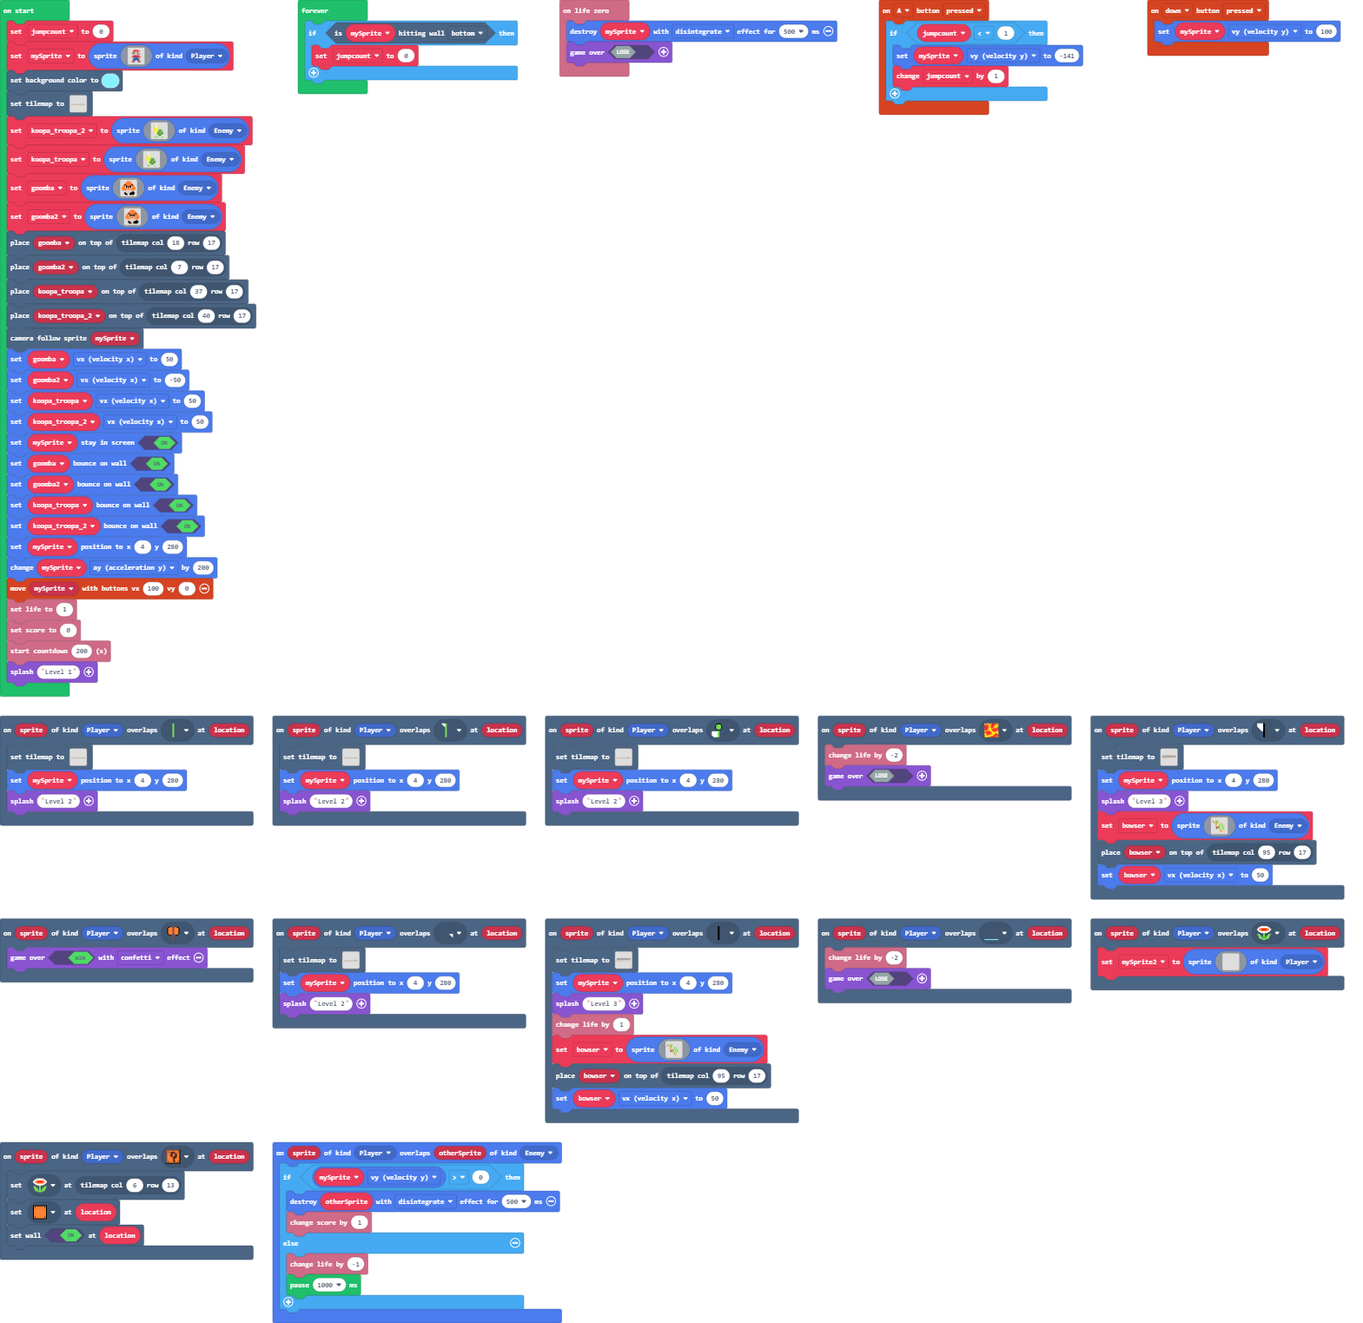
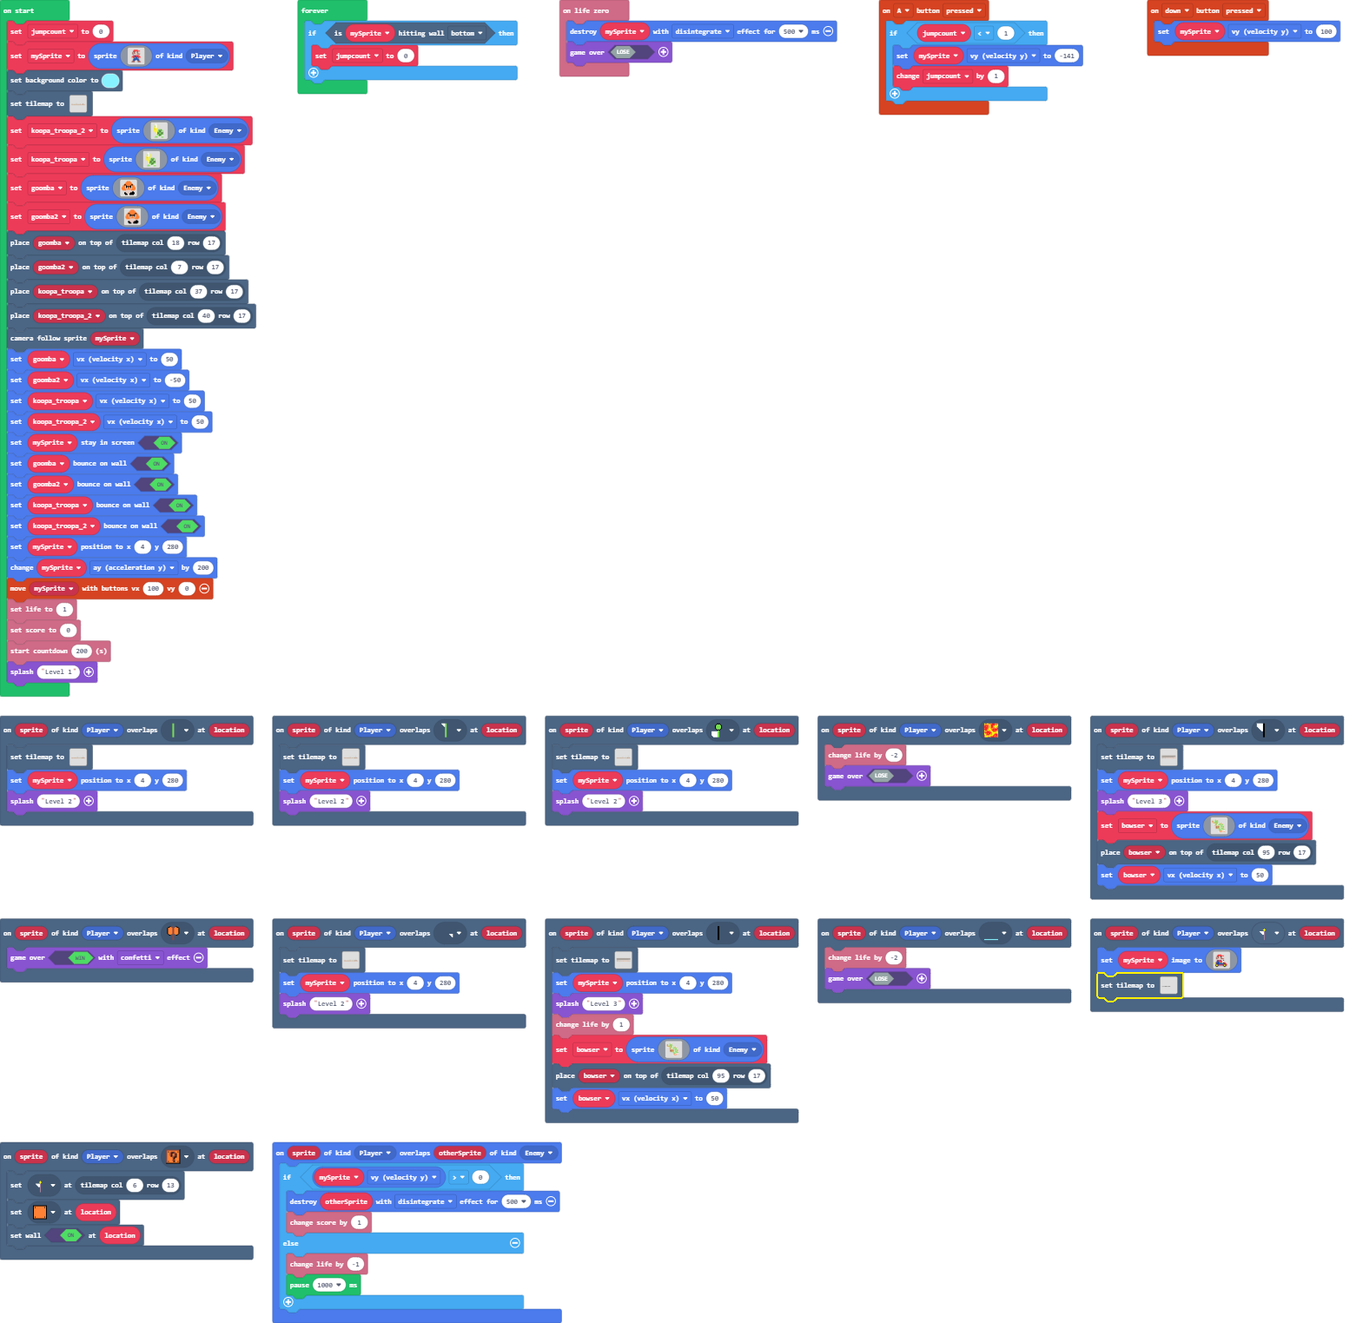
Update main.blocks, main.ts, tilemap.g.jres, tilemap.g.ts

Changed region(s): [[0.7808, 0.7098, 0.9994, 0.7715], [0.9369, 0.6172, 0.9681, 0.6481]]

diff --git a/tilemap.g.ts b/tilemap.g.ts
@@ -29,8 +29,6 @@ namespace myTiles {
     //% fixedInstance jres blockIdentity=images._tile
     export const tile13 = image.ofBuffer(hex``);
     //% fixedInstance jres blockIdentity=images._tile
-    export const tile14 = image.ofBuffer(hex``);
-    //% fixedInstance jres blockIdentity=images._tile
     export const tile15 = image.ofBuffer(hex``);
     //% fixedInstance jres blockIdentity=images._tile
     export const tile16 = image.ofBuffer(hex``);
@@ -50,6 +48,12 @@ namespace myTiles {
     export const tile23 = image.ofBuffer(hex``);
     //% fixedInstance jres blockIdentity=images._tile
     export const tile24 = image.ofBuffer(hex``);
+    //% fixedInstance jres blockIdentity=images._tile
+    export const tile14 = image.ofBuffer(hex``);
+    //% fixedInstance jres blockIdentity=images._tile
+    export const tile25 = image.ofBuffer(hex``);
+    //% fixedInstance jres blockIdentity=images._tile
+    export const tile26 = image.ofBuffer(hex``);
 
     helpers._registerFactory("tilemap", function(name: string) {
         switch(helpers.stringTrim(name)) {
@@ -318,29 +322,6 @@ namespace myTiles {
 . . . . . . . . . . . . . . . . 
 . . . . . . . . . . . . . . . . 
 `, [myTiles.transparency16], TileScale.Sixteen);
-            case "level5":
[1 lines of base64/hex data omitted]
-2222222222222222222222222222222222222222222222222222222222222222222222222222222222222222222222222222
-2222222222222222222222222222222222222222222222222222222222222222222222222222222222222222222222222222
-22222222222222222222222222222222222222222222222.........................................222222222222
-22222222222222222222222222222222222222222222222.........................................222222222222
-22222222222222222222222222222222222222222222222...........................................2222222222
-2222222222222222222222222222222222222222222.............2....2...2...........2...2.............22222
-22222222222222222222222222222222222222222...........2................2...2........................22
-22222222222222222222222222222222...............2...................................................2
-222222222222.22222222222222222.2....................................................................
-....................................................................................................
-...........................................222......................................................
-....................................................................................................
-....................................................................2.............22................
-................................2...................................2............222................
-.2...22222......................2.........22222.....................2...........2222................
-...........................2....2..............................2....2..........22222................
-....................2......2....2....................2....2....2....2.........222222................
-...................22......2....2...................22....22...2....2........2222222......2.........
-222222222222222222222222222222222222222222222222222222....2222222...22222222222222222222222222222222
-222222222222222222222222222222222222222222222222222222....2222222...22222222222222222222222222222222
-`, [myTiles.transparency16,myTiles.tile2,myTiles.tile3,myTiles.tile4,myTiles.tile5,myTiles.tile10,myTiles.tile11,myTiles.tile13,myTiles.tile14,myTiles.tile15,myTiles.tile16,myTiles.tile18], TileScale.Sixteen);
             case "level15":
             case "level15":return tiles.createTilemap(hex`640014000101010101010101010101010101010101010101010101010101010101010101010101010101010101010101010101010101010101010101010101010101010101010101010101010101010101010101010101010101010101010101010101010101010101010101010101010101010101010101010101010101010101010101010101010101010101010101010101010101010101010101010101010101010101010101010101010101010101010101010101010101010101010101010101010101010101010101010101010101010101010101010101010101010101010101010101010101010101010101010101010101010101010101010101010101010101010101010101010101010101010101010101010101010101010101010101010101010101010101010101010101010101010101010101010101010101010101010101010101010101010101010101010101010101010101010101010101010101010101010101010101010101010101010101010101010101010101010101010101010101010101010101010101010101010101010101010101010101010101010101010101010101010101010101010101010101010101010101010101010101010101010101010101010101010101010101010101010101010101010101010101010101010101010101010101010101010101010101010101010101010101010101010101010101010101010101010101010101010101010101010101010101010101010101010101010101010101010101010101010101010101010101010101010101010101010101010101010101010101010101010101010101010101010101010101010101010101010101010101010101010101010101010101010101010101010101010101010101010101010101010101010101010101010101010101010101010101010101010101010101010101010101010101010101010101010101010101010101010101010101010101010101010101010101010101010101010101010101010101010101010101010101010101010101010101010101010101010101010101010101010101010101010101010101010101010101010101010101010101010101010101010101010101010101010101010101010101010101010101010101010101010101010101010101010101010101010101010101010101010101010101010101010101010101010101010101010101010101010101010101010101010101010101010101010101010101010101010101010101010101010101010101010101010101010101010101010101010101010101010101010101010101010101010101010101010101010101010101010101010101010101010101010101010101010101010101010101010101010101010101010101010101010101010101010101010101010101010101010101010101010101010101010101010101010101010101010101010101010101010101010101010101010000000000000000000000000001010101010101010101010101010101010101010101010101010101010101010101010101010101010101010101010101010101010101010101010101010101010101010101010101010101010101010101010101010100000000000000000000000000010000000000000000000000000000000000000000000000000000000000000000000000000000000000000000000000000000000000000000000000000000000000000000000000000000000000000000000000000000000000000000000000000000000000000000000000000000000000000000000000000000000000000000000000000000000000000000000000000000000000000000000000000000000000000000000000000000000000000000000000000000000000000000000000000000000000000000000000000000000000000000000000000000000000000000000000000000000000000000000000000000000000000000000000000000000000000000000000000000000000000000000000000000000000000000000000000000000000000000000000000103010100000001010301000000000000000000000000000000000000000000000000000000000000000000000000000000000000000000000000000000000000000000000000000000000000000000000000000000000000000000000000000000000000000000000000000000000000000000000000000000000004000000000000000000000000000000000000000000000000000000000000000000000000020202020000000000000000000000000000000000000000000000000000000000000000000000000000000000000000000000060600000000000000000000080000000000000000000000000000000000000000000000000000000000020202000000000000000000000000020202000000020200000000000000000000000000000000000000000000070101010101010101010101010101000000000000010101010101010101000000000000010101000000000000000000010101010000000000000000000000000000000000000000000000000000000000010101010101020202020202020202020202010101010101010101010101010101010505050505050101010101010101010505050505050101010505050505050505050101010105050505050505050505050505050505050505050505050505050505050101010101010505050505050505050505050101`, img`
 2222222222222222222222222222222222222222222222222222222222222222222222222222222222222222222222222222
@@ -383,6 +364,29 @@ namespace myTiles {
 . . . . . . . . . . . . . . . . 
 . . . . . . . . . . . . . . . . 
 `, [myTiles.transparency16], TileScale.Sixteen);
+            case "level5":
[1 lines of base64/hex data omitted]
+2222222222222222222222222222222222222222222222222222222222222222222222222222222222222222222222222222
+2222222222222222222222222222222222222222222222222222222222222222222222222222222222222222222222222222
+22222222222222222222222222222222222222222222222.........................................222222222222
+22222222222222222222222222222222222222222222222.........................................222222222222
+22222222222222222222222222222222222222222222222...........................................2222222222
+2222222222222222222222222222222222222222222.............2....2...2...........2...2.............22222
+22222222222222222222222222222222222222222...........2................2...2........................22
+22222222222222222222222222222222...............2...................................................2
+222222222222.22222222222222222.2....................................................................
+....................................................................................................
+...........................................222......................................................
+....................................................................................................
+....................................................................2.............22................
+................................2...................................2............222................
+.2...22222......................2.........22222.....................2...........2222................
+...........................2....2..............................2....2..........22222................
+....................2......2....2....................2....2....2....2.........222222................
+...................22......2....2...................22....22...2....2........2222222......2.........
+222222222222222222222222222222222222222222222222222222....2222222...22222222222222222222222222222222
+222222222222222222222222222222222222222222222222222222....2222222...22222222222222222222222222222222
+`, [myTiles.transparency16,myTiles.tile2,myTiles.tile3,myTiles.tile4,myTiles.tile5,myTiles.tile10,myTiles.tile11,myTiles.tile13,myTiles.tile14,myTiles.tile15,myTiles.tile16,myTiles.tile18], TileScale.Sixteen);
             case "level3":
[1 lines of base64/hex data omitted]
 ....................................................................................................
@@ -399,13 +403,41 @@ namespace myTiles {
 ....................................................................................................
 ....................................................................................22..............
 ...................................................................................222..............
-.2...2.22................2.........22222.......................22222..............2222..............
+.2..22.22................2.........22222.......................22222..............2222..............
 .....................2...2....................2....2....2........................22222..............
 .................2...2...2....................2....2....2.......................222222..............
 .................2...2...2....................2....2....2......................2222222.....2........
 2222222222222222222222222222222222222222222222222222222222222222222222222222222222222222222222222222
 2222222222222222222222222222222222222222222222222222222222222222222222222222222222222222222222222222
-`, [myTiles.transparency16,myTiles.tile2,myTiles.tile3,myTiles.tile4,myTiles.tile5,myTiles.tile6,myTiles.tile12,myTiles.tile7,myTiles.tile9,myTiles.tile10,myTiles.tile11,myTiles.tile23,myTiles.tile22], TileScale.Sixteen);
+`, [myTiles.transparency16,myTiles.tile2,myTiles.tile3,myTiles.tile4,myTiles.tile5,myTiles.tile6,myTiles.tile12,myTiles.tile7,myTiles.tile9,myTiles.tile10,myTiles.tile11,myTiles.tile23,myTiles.tile24,myTiles.tile25], TileScale.Sixteen);
+            case "level19":
+            case "level19":return tiles.createTilemap(hex`6400190000000000000000000000000000000000000000000000000000000000000000000000000000000000000000000000000000000000000000000000000000000000000000000000000000000000000000000000000000000000000000000000000000000000000000000000000000000000000000000000000000000000000000000000000000000000000000000000000000000000000000000000000000000000000000000000000000000000000000000000000000000000000000000000000000000000000000000000000000000000000000000000000000000000000000000000000000000000000000000000000000000000000000000000000000000000000000000000000000000000000000000000000000000000000000000000000000000000000000000000000000000000000000000000000000000000000000000000000000000000000000000000000000000000000000000000000000000000000000000000000000000000000000000000000000000000000000000000000000000000000000000000000000000000000000000000000000000000000000000000000000000000000000000000000000000000000000000000000000000000000000000000000000000000000000000000000000000000000000000000000000000000000000000000000000000000000000000000000000000000000000000000000000000000000000000000000000000000000000000000000000000000000000000000000000000000000000000000000000000000000000000000000000000000000000000000000000000000000000000000000000000000000000000000000000000000000000000000000000000000000000000000000000000000000000000000000000000000000000000000000000000000000000000000000000000000000000000000000000000000000000000000000000000000000000000000000000000000000000000000000000000000000000000000000000000000000000000000000000000000000000000000000000000000000000000000000000000000000000000000000000000000000000000000000000000000000000000000000000000000000000000000000000000000000000000000000000000000000000000000000000000000000000000000000000000000000000000000000000000000000000000000000000000000000000000000000000000000000000000000000000000000000000000000000000000000000000000000000000000000000000000000000000000000000000000000000000000000000000000000000000000000000000000000000000000000000000000000000000000000000000000000000000000000000000000000000000000000000000000000000000000000000000000000000000000000000000000000000000000000000000000000000000000000000000000000000000000000000000000000000000000000000000000000000000000000000000000000000000000000000000000000000000000000000000000000000000000000000000000000000000000000000000000000000000000000000000000000000000000000000000000000000000000000000000000000000000000000000000000000000000000000000000000000000000000000000000000000000000000000000000000000000000000000000000000000000000000000000000000000000000000000000000000000000000000000000000000000000000000000000000000000000000000000000000000000000000000000000000000000000000000000000000000000000000000000000000000000000000000000000000000000000000000000000000000000000000000000000000000000000000000000000000000000000000000000000000000000000000000000000000000000000000000000000000000000000000000000000000000000000000000000000000000000000000000000000000000000000000000000000000000000000000000000000000000000000000000000000000000000000000000000000000000000000000000000000000000000000000000000000000000000000000000000000000000000000000000000000000000000000000000000000000000000000000000000000000000000000000000000000000000000000000000000000000000000000000000000000000000000000000000000000000000000000000000000000000000000000000000000000000000000000000000000000000000000000000000000000000000000000000000000000000000000000000000000000000000000000000000000000000000000000000000000000000000000000000000000000000000000000000000000000000000000000000000000000000000000000000000000000000000000000000000000000000000000000000000000000000000000000000000000000000000000000000000000000000000000000000000000000000000000000000000000000000000000000000000000000000000000000000000000000000000000000000000000000000000000000000000000000000000000000000000000000000000000000000000000000000000000000000000000000000000000000000000000000000000000000000000000000000000000000000000000000000000000000000000000000000000000000000000000000000000000000000000000000000000000000000000000000000000000000000000000000000000000000000000000000000000000000000000000000000000000000000000000000000000000000000000000000000000000000000000000000000000000000000000000000000000000000000000000000000000000000000000000000000000000000101010101010101010101000000000000000000000000000000000101010101010101010100000000000000000000000000000000000000000000000000000000000000000000000000000000000101010101010101010101010101010101010101010101010101010101010101010101010101010101010101010101010100010101010101010000000000000000000000000000000000000000000000000000000000000000000000000000000000000000000000000000000000000000000000000000000000000000000000000000000000000000000000000000000000000000000100000000000000000000000000000000000000000000000000000000000000000000000000000000000000000000000000000000000000000000000000000000000000000000000000000000000000000000000000000000000000000000000000000000000000000000000000000000000000000000000000000000000000000000000000000000000000000000000000000000`, img`
+....................................................................................................
+....................................................................................................
+....................................................................................................
+....................................................................................................
+....................................................................................................
+....................................................................................................
+....................................................................................................
+....................................................................................................
+....................................................................................................
+....................................................................................................
+....................................................................................................
+....................................................................................................
+....................................................................................................
+....................................................................................................
+....................................................................................................
+....................................................................................................
+....................................................................................................
+....................................................................................................
+....................................................................................................
+....................................................................................................
+....................................................................................................
+....................................................................................................
+....................................................................................................
+....................................................................................................
+....................................................................................................
+`, [myTiles.transparency16,myTiles.tile26], TileScale.Sixteen);
         }
         return null;
     })
@@ -439,8 +471,6 @@ namespace myTiles {
             case "tile11":return tile11;
             case "myTile11":
             case "tile13":return tile13;
-            case "myTile12":
-            case "tile14":return tile14;
             case "myTile13":
             case "tile15":return tile15;
             case "myTile14":
@@ -461,6 +491,12 @@ namespace myTiles {
             case "tile23":return tile23;
             case "myTile22":
             case "tile24":return tile24;
+            case "myTile12":
+            case "tile14":return tile14;
+            case "myTile23":
+            case "tile25":return tile25;
+            case "myTile24":
+            case "tile26":return tile26;
         }
         return null;
     })

diff --git a/main.ts b/main.ts
@@ -1,26 +1,6 @@
 namespace SpriteKind {
     export const enmey2 = SpriteKind.create()
 }
-scene.onOverlapTile(SpriteKind.Player, assets.tile`myTile22`, function (sprite, location) {
-    mySprite2 = sprites.create(img`
-        . . . . . . . . . . . . . . . . 
-        . . . . . . . . . . . . . . . . 
-        . . . . . . . . . . . . . . . . 
-        . . . . . . . . . . . . . . . . 
-        . . . . . . . . . . . . . . . . 
-        . . . . . . . . . . . . . . . . 
-        . . . . . . . . . . . . . . . . 
-        . . . . . . . . . . . . . . . . 
-        . . . . . . . . . . . . . . . . 
-        . . . . . . . . . . . . . . . . 
-        . . . . . . . . . . . . . . . . 
-        . . . . . . . . . . . . . . . . 
-        . . . . . . . . . . . . . . . . 
-        . . . . . . . . . . . . . . . . 
-        . . . . . . . . . . . . . . . . 
-        . . . . . . . . . . . . . . . . 
-        `, SpriteKind.Player)
-})
 controller.A.onEvent(ControllerButtonEvent.Pressed, function () {
     if (jumpcount < 1) {
         mySprite.vy = -141
@@ -42,7 +22,7 @@ scene.onOverlapTile(SpriteKind.Player, assets.tile`myTile18`, function (sprite, 
     game.over(false)
 })
 scene.onOverlapTile(SpriteKind.Player, assets.tile`myTile21`, function (sprite, location) {
-    tiles.setTileAt(tiles.getTileLocation(6, 13), assets.tile`myTile22`)
+    tiles.setTileAt(tiles.getTileLocation(6, 13), assets.tile`myTile23`)
     tiles.setTileAt(location, assets.tile`myTile`)
     tiles.setWallAt(location, true)
 })
@@ -108,6 +88,29 @@ scene.onOverlapTile(SpriteKind.Player, assets.tile`myTile10`, function (sprite, 
     mySprite.setPosition(4, 280)
     game.splash("Level 2")
 })
+scene.onOverlapTile(SpriteKind.Player, assets.tile`myTile23`, function (sprite, location) {
+    mySprite.setImage(img`
+        ..................
+        ..................
+        ....22222.........
+        ...222222222......
+        ...eeeddfd........
+        ..ededddfddd......
+        ..edeedddeddd.....
+        ..eeddddeeee......
+        ....ddddddd.......
+        ...282228..f......
+        ...882222211......
+        ..c888222211d.....
+        5bcc88858..fe2....
+        5bcc8888888ee22...
+        ..ff8888888eff22..
+        .f55f222222f55f2..
+        .f55fbbbbbbf55fb..
+        ..ff........ff....
+        `)
+    tiles.setTilemap(tilemap`level19`)
+})
 scene.onOverlapTile(SpriteKind.Player, assets.tile`myTile14`, function (sprite, location) {
     tiles.setTilemap(tilemap`level15`)
     mySprite.setPosition(4, 280)
@@ -167,7 +170,6 @@ sprites.onOverlap(SpriteKind.Player, SpriteKind.Enemy, function (sprite, otherSp
     }
 })
 let bowser: Sprite = null
-let mySprite2: Sprite = null
 let mySprite: Sprite = null
 let jumpcount = 0
 jumpcount = 0
